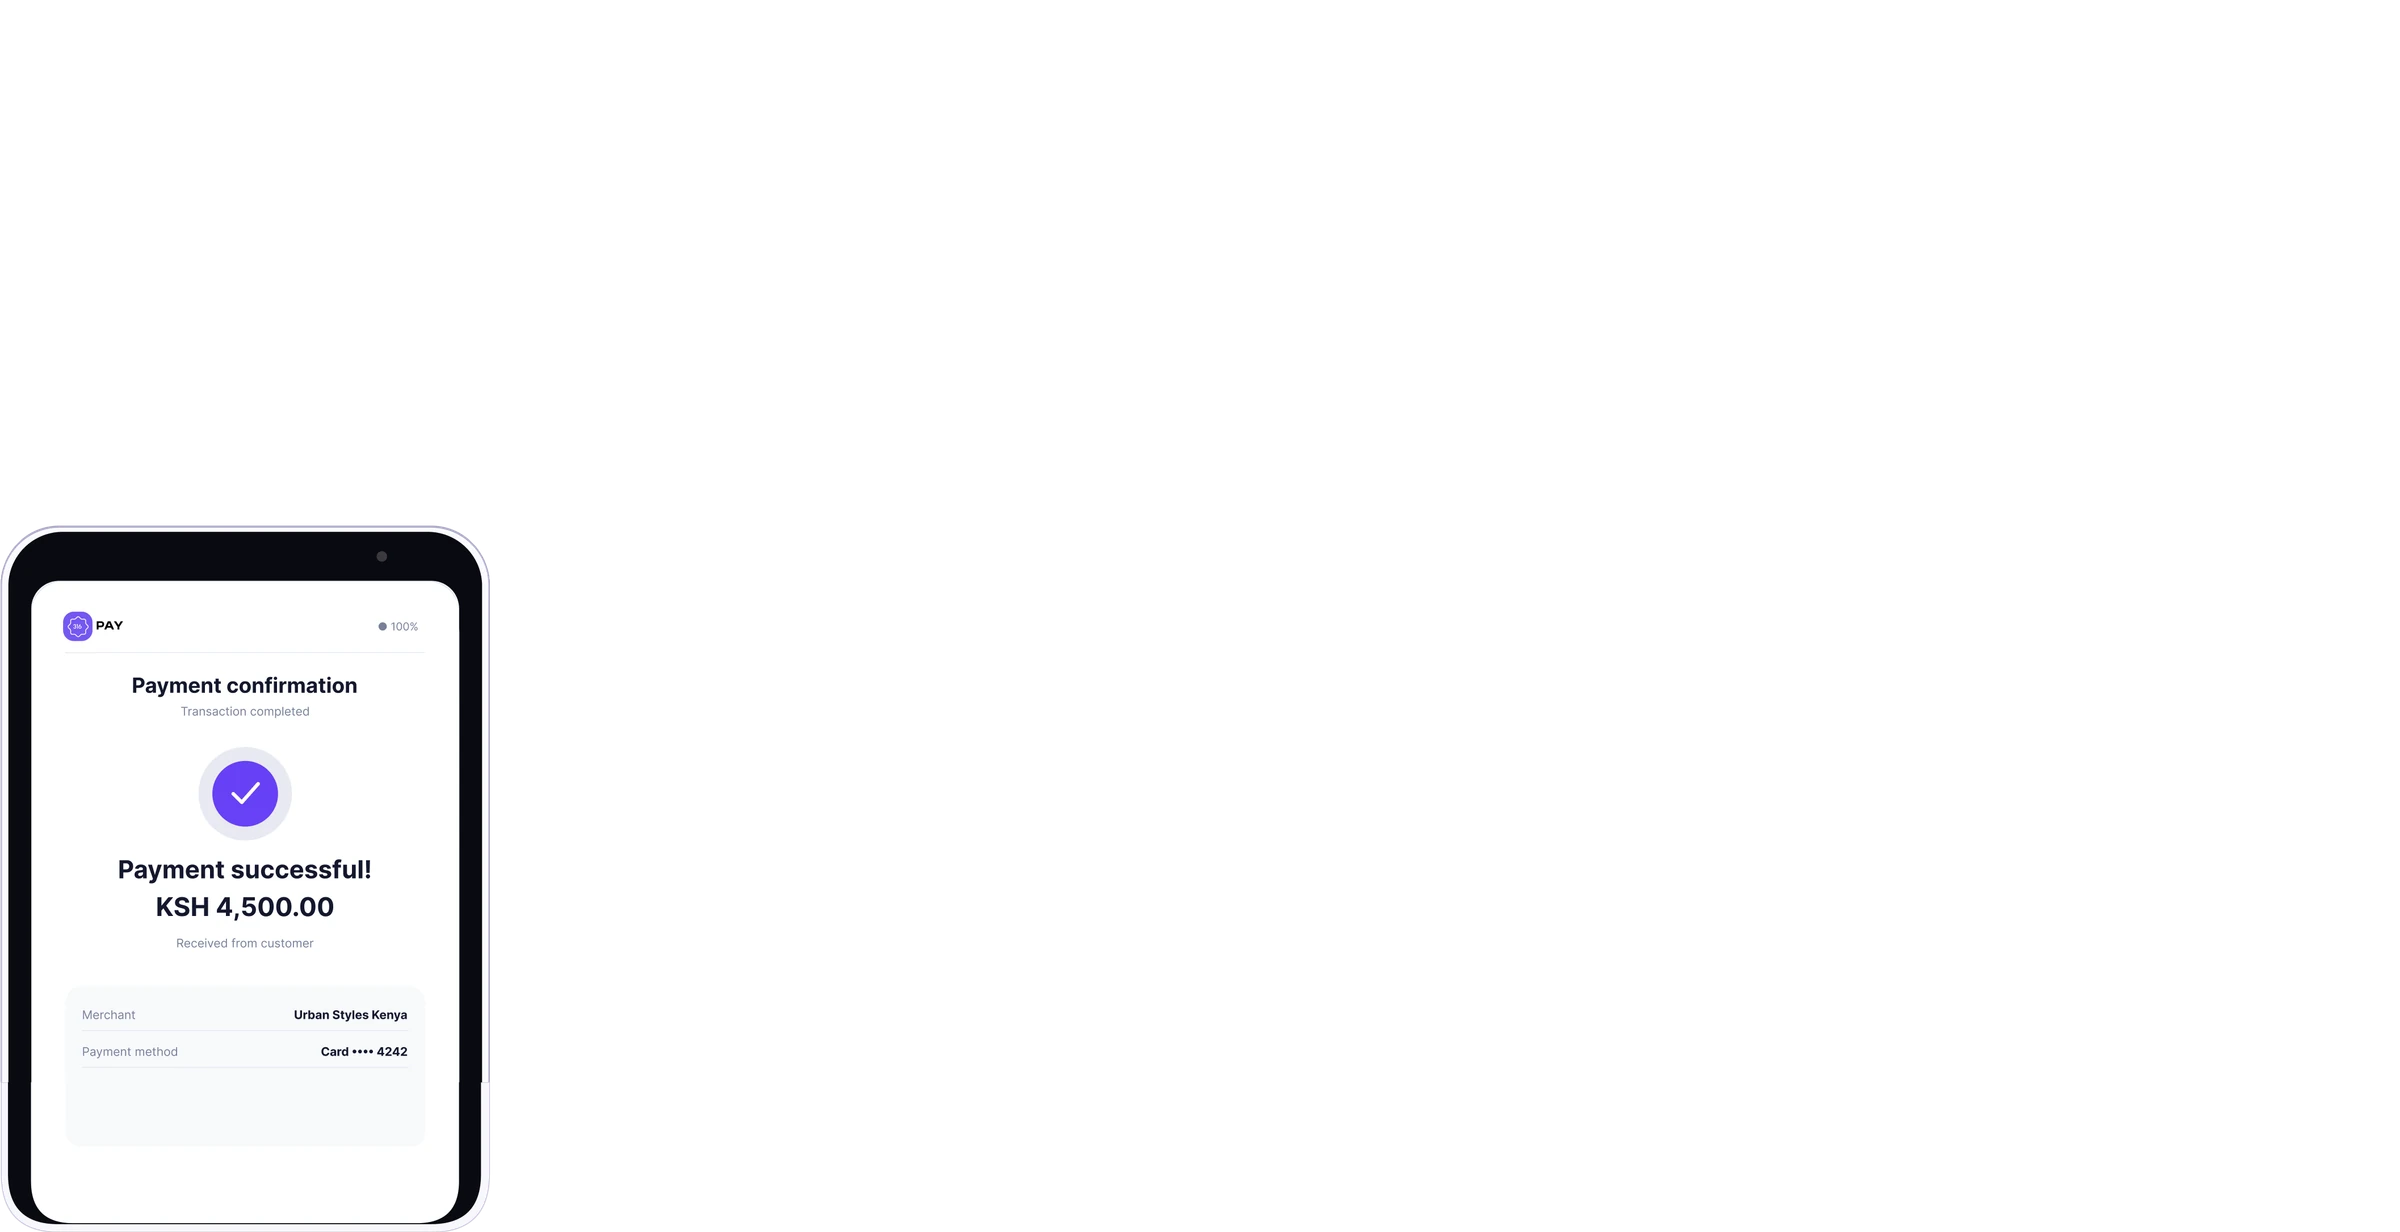
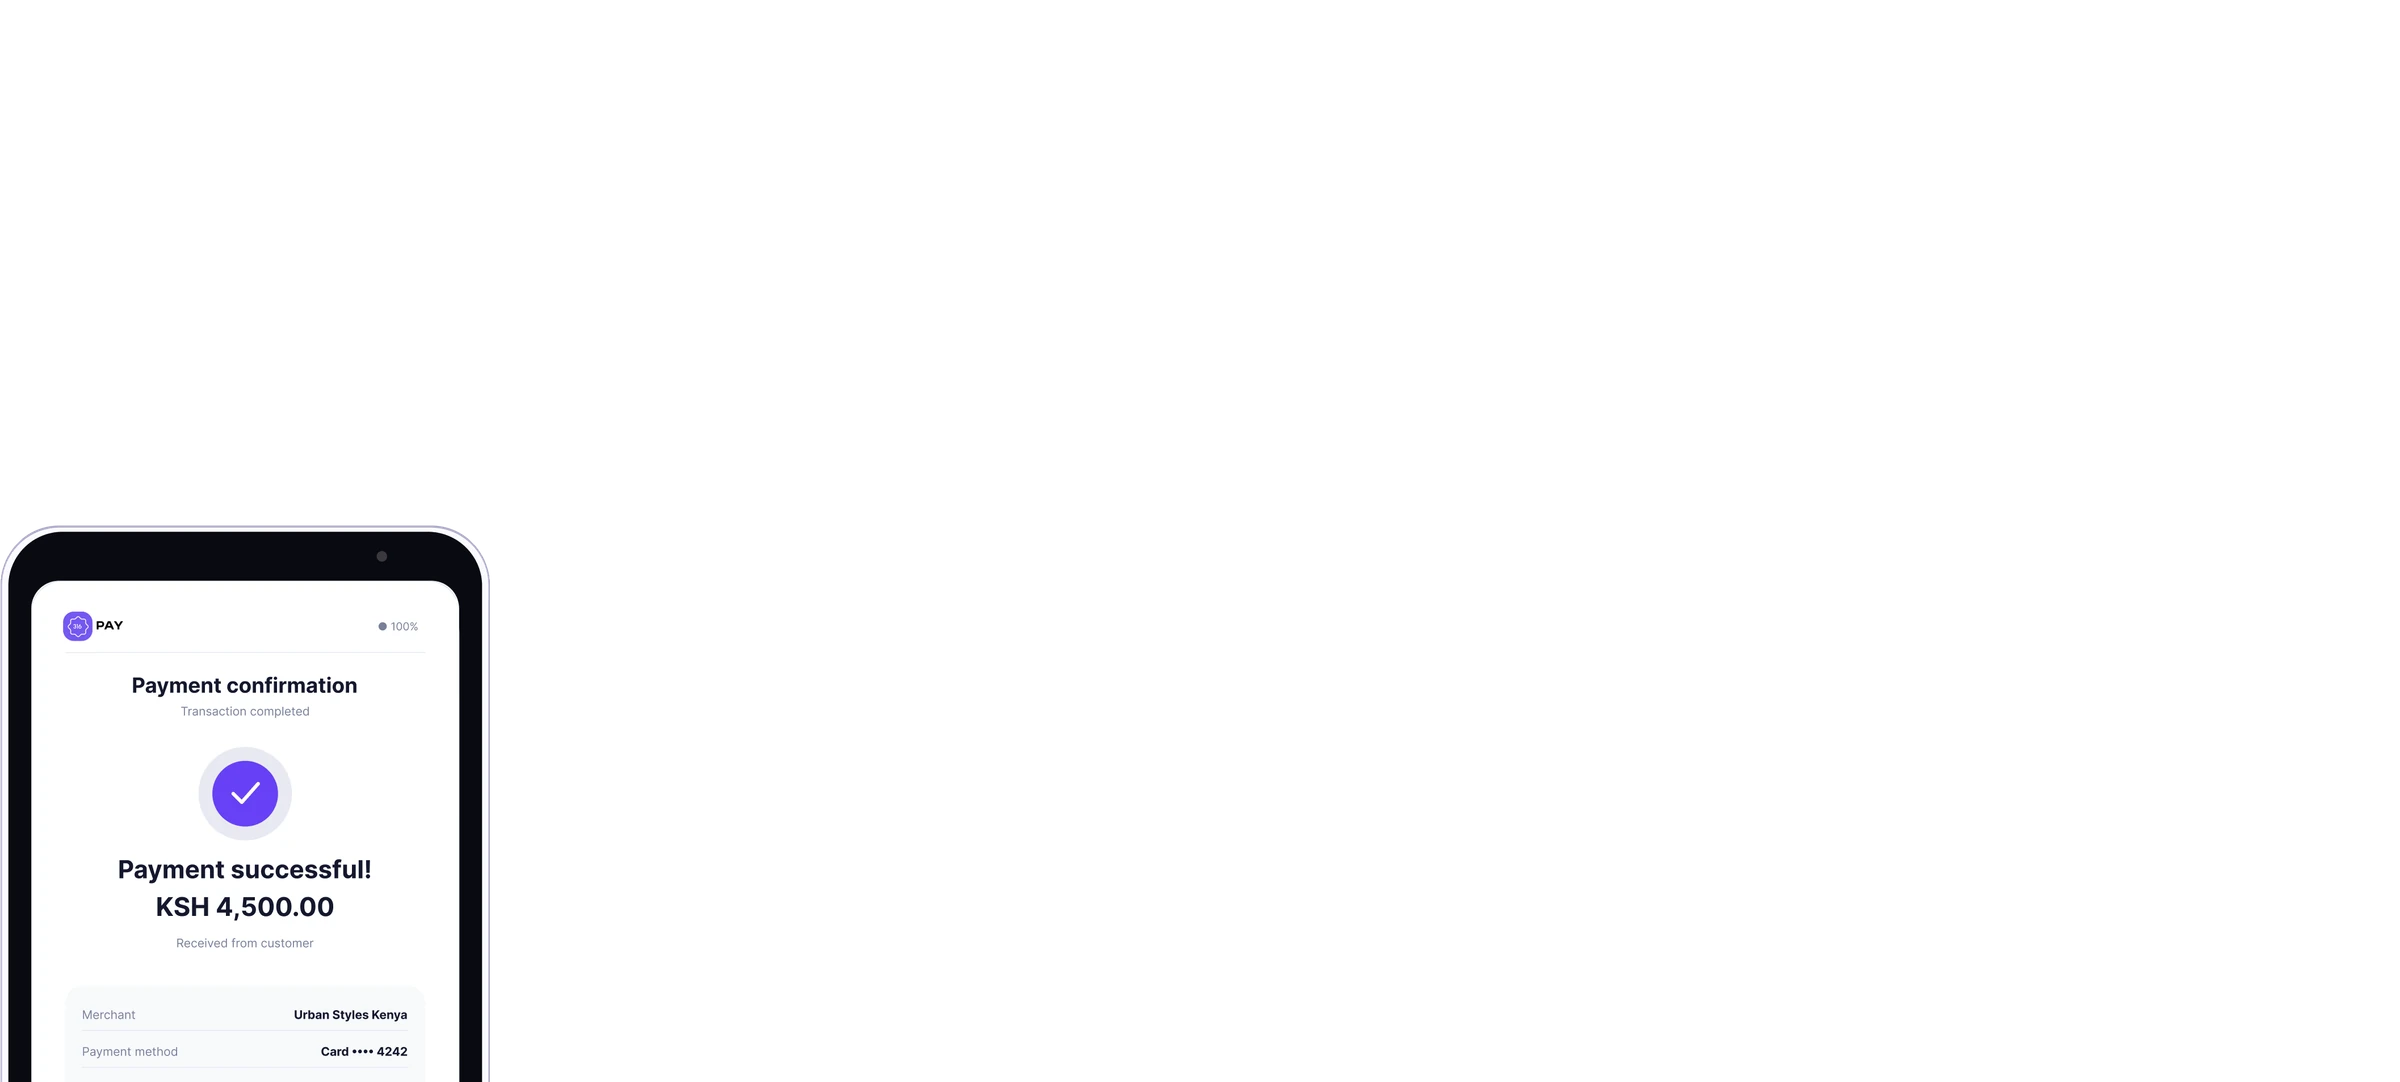
Hero phone: back to the straight cut at the section edge (sides run into the cut, no rounded corners or bezel at the bottom); the rebuilt, matching top corners stay

diff --git a/apps/marketing-web/accept-online-payments.html b/apps/marketing-web/accept-online-payments.html
@@ -10,10 +10,10 @@
   <link rel="preconnect" href="https://fonts.googleapis.com">
   <link rel="preconnect" href="https://fonts.gstatic.com" crossorigin>
   <link rel="stylesheet" href="https://fonts.googleapis.com/css2?family=Outfit:wght@400;500;600;700&display=swap">
-  <link rel="preload" as="image" href="assets/Business/hero-phone.webp?v=611ebb89" type="image/webp" fetchpriority="high">
+  <link rel="preload" as="image" href="assets/Business/hero-phone.webp?v=3039fd52" type="image/webp" fetchpriority="high">
   <link rel="stylesheet" href="styles.css?v=12b22bb8">
   <link rel="stylesheet" href="sections.css?v=373b85c0">
-  <link rel="stylesheet" href="business.css?v=58dd3bb1">
+  <link rel="stylesheet" href="business.css?v=f5a03da0">
   <link rel="stylesheet" href="mobile.css?v=3ae922dd">
 </head>
 <body class="theme-pay">
@@ -214,8 +214,8 @@
         <h1 id="bz-hero-title" class="bz-hero__title"><span class="ln accent">We make it easy</span> <span class="ln">to collect payments in Africa</span></h1>
         <p class="bz-lead"><span class="ln">Collect payments from customers, simplify your operations and reach more</span> <span class="ln">of your market with payment infrastructure designed around African</span> <span class="ln">businesses.</span></p>
       </div>
-      <div class="bz-hero__media"><img src="assets/Business/hero-phone.webp?v=611ebb89" alt="A phone showing a payment confirmation in front of three checkout screens: mobile money, bank transfer and card" class="bz-img" fetchpriority="high" width="2400" height="1232" decoding="async">
-      <img src="assets/Business/hero-phone.webp?v=611ebb89" alt="" class="bz-phone-top" loading="eager" width="2400" height="1232" decoding="async">
+      <div class="bz-hero__media"><img src="assets/Business/hero-phone.webp?v=3039fd52" alt="A phone showing a payment confirmation in front of three checkout screens: mobile money, bank transfer and card" class="bz-img" fetchpriority="high" width="2400" height="1082" decoding="async">
+      <img src="assets/Business/hero-phone.webp?v=3039fd52" alt="" class="bz-phone-top" loading="eager" width="2400" height="1082" decoding="async">
       <div class="bz-hero__screens" aria-hidden="true">
         <div class="bz-deck bz-deck--1"><img src="assets/Business/hero-win.webp?v=453b16a9" alt="" class="bz-base" loading="eager" width="1500" height="1063" decoding="async"><svg class="bz-ov" viewBox="0 0 968 686" aria-hidden="true" focusable="false" preserveAspectRatio="xMinYMin slice"><g class="hp2"><rect x="80" y="578" width="298" height="22" rx="3" fill="rgba(117,87,241,.18)"/></g><g class="hp3 tc"><circle cx="130" cy="589" r="16" fill="none" stroke="#7557F1" stroke-width="2.2"/></g><g class="hp4"><rect x="56" y="256" width="332" height="440" rx="0" fill="#fff"/></g><g class="hp5"><text x="64" y="292" font-size="14" font-weight="600" fill="#111">Pay to this account</text></g><g class="hp6"><text x="64" y="338" font-size="12" font-weight="500" fill="#5F6B8A">Bank name</text><rect x="64" y="352" width="32" height="30" rx="6" fill="#F3F4F8"/><text x="80" y="371" font-size="9" font-weight="700" fill="#18B1A5" text-anchor="middle">Pay</text><text x="106" y="373" font-size="15" font-weight="500" fill="#111">Opay</text><line x1="64" y1="396" x2="372" y2="396" stroke="#EDEFF4" stroke-width="1.4"/></g><g class="hp7"><text x="64" y="424" font-size="12" font-weight="500" fill="#5F6B8A">Account number</text></g><g class="hp8"><text x="64" y="454" font-size="15" font-weight="500" fill="#111">1457778996</text><line x1="64" y1="474" x2="372" y2="474" stroke="#EDEFF4" stroke-width="1.4"/></g><g class="hp9"><text x="64" y="504" font-size="12" font-weight="500" fill="#5F6B8A">Merchant Name</text><text x="64" y="534" font-size="15" font-weight="500" fill="#111">316 PAY / AMAKAS BOUTIQUE</text><line x1="64" y1="554" x2="372" y2="554" stroke="#EDEFF4" stroke-width="1.4"/></g><g class="hp10"><g transform="translate(126 580) scale(0.708)" fill="none" stroke="#111" stroke-width="2" stroke-linecap="round" stroke-linejoin="round"><circle cx="12" cy="12" r="9"/><path d="M12 7v5l3 2"/></g><text x="150" y="593" font-size="11" font-weight="500" fill="#111">Complete transfer within</text></g><g class="hp11"><text x="290" y="593" font-size="11" font-weight="700" fill="#111">09:45</text></g><g class="hp12"><text x="290" y="593" font-size="11" font-weight="700" fill="#111">09:44</text></g><g class="hp13"><text x="290" y="593" font-size="11" font-weight="700" fill="#111">09:43</text></g><g class="hp14"><text x="290" y="593" font-size="11" font-weight="700" fill="#111">09:42</text></g><g class="hp15"><rect x="60" y="612" width="320" height="36" rx="3" fill="#F0F0F2"/><g class="hp-spin tc"><g transform="translate(143 623) scale(0.583)" fill="none" stroke="#9AA0AD" stroke-width="2.6" stroke-linecap="round" stroke-linejoin="round"><path d="M12 3a9 9 0 1 0 9 9" /></g></g><text x="168" y="635" font-size="12" font-weight="500" fill="#9AA0AD">Waiting for payment</text></g><g class="hp16"><rect x="60" y="612" width="320" height="36" rx="3" fill="#1FAE7A"/><g transform="translate(150 622) scale(0.667)" fill="none" stroke="#fff" stroke-width="3" stroke-linecap="round" stroke-linejoin="round"><path d="m6 12.5 4 4 8-9"/></g><text x="176" y="635" font-size="12" font-weight="700" fill="#fff">Payment received</text></g><g class="hp17"><circle cx="222" cy="318" r="40" fill="none" stroke="#E4DEFF" stroke-width="6" pathLength="1" stroke-dasharray="1" transform="rotate(-90 222 318)"/></g><g class="hp18 tc"><circle cx="222" cy="318" r="29" fill="#7557F1"/></g><g class="hp19"><path d="m208 318.5 10 10 19-21" fill="none" stroke="#fff" stroke-width="5" stroke-linecap="round" stroke-linejoin="round" pathLength="1" stroke-dasharray="1"/></g><g class="hp20"><text x="222" y="392" font-size="15" font-weight="700" fill="#111" text-anchor="middle">Payment Successful</text><text x="222" y="417" font-size="14" font-weight="700" fill="#111" text-anchor="middle">NGN 57,000</text></g><g class="hp21"><rect x="202" y="428" width="40" height="16" rx="8" fill="#E7E2FF"/><text x="222" y="440" font-size="9.5" font-weight="600" fill="#7557F1" text-anchor="middle">Paid</text></g><g class="hp22"><rect x="56" y="460" width="328" height="130" rx="0" fill="#F8F7FF"/></g><g class="hp23"><text x="78" y="488" font-size="12" font-weight="500" fill="#5F6B8A">Paid to</text><text x="362" y="488" font-size="12" font-weight="700" fill="#111" text-anchor="end">Amakas Boutique</text></g><g class="hp24"><text x="78" y="518" font-size="12" font-weight="500" fill="#5F6B8A">Payment Method</text><text x="362" y="518" font-size="12" font-weight="700" fill="#111" text-anchor="end">Bank Transfer</text></g><g class="hp25"><text x="78" y="548" font-size="12" font-weight="500" fill="#5F6B8A">Reference</text><text x="362" y="548" font-size="12" font-weight="700" fill="#111" text-anchor="end">PAY-20481</text></g><g class="hp26"><text x="78" y="578" font-size="12" font-weight="500" fill="#5F6B8A">Status</text><text x="362" y="578" font-size="12" font-weight="700" fill="#111" text-anchor="end">Complete</text></g><g class="hp27"><rect x="60" y="604" width="320" height="32" rx="3" fill="#7557F1"/><text x="220" y="625" font-size="13" font-weight="700" fill="#fff" text-anchor="middle">Done</text></g><g class="hp28"><rect x="60" y="644" width="320" height="26" rx="3" fill="#fff" stroke="#D6D6DE" stroke-width="1"/><text x="220" y="662" font-size="11" font-weight="500" fill="#333" text-anchor="middle">Copy receipt details</text></g><g class="hp29"><path d="M0 0 0 17.5l4.6-4 3.2 7.4 3.2-1.4-3.2-7.2H14Z" fill="#111" stroke="#fff" stroke-width="1.3" stroke-linejoin="round"/></g></svg></div>
         <div class="bz-deck bz-deck--2"><img src="assets/Business/hero-bs.webp?v=a3f41e2d" alt="" class="bz-base" loading="eager" width="1500" height="1063" decoding="async"><svg class="bz-ov" viewBox="0 0 968 686" aria-hidden="true" focusable="false" preserveAspectRatio="xMinYMin slice"><g class="hp30"><rect x="172" y="463" width="88" height="24" rx="2" fill="#fff" stroke="#E6E6EA" stroke-width="1"/><text x="216" y="480" font-size="11" font-weight="500" fill="#111"></text></g><g class="hp31"><text x="216" y="479.5" font-size="11" font-weight="500" fill="#111" text-anchor="middle">0712 345 678</text></g><g class="hp32"><rect x="64" y="585" width="302" height="28" rx="3" fill="#5D45D8"/><g class="hp-spin tc"><g transform="translate(163 592) scale(0.583)" fill="none" stroke="#fff" stroke-width="2.8" stroke-linecap="round" stroke-linejoin="round"><path d="M12 3a9 9 0 1 0 9 9" /></g></g><text x="188" y="603" font-size="11" font-weight="600" fill="#fff">Processing…</text></g><g class="hp33 tc"><circle cx="228" cy="599" r="16" fill="none" stroke="#7557F1" stroke-width="2.2"/></g><g class="hp34"><rect x="56" y="252" width="328" height="436" rx="0" fill="#fff"/></g><g class="hp35"><circle class="hp-pulse" cx="219" cy="298" r="34" fill="#EFEBFD"/><circle class="hp-pulse hp-pulse2" cx="219" cy="298" r="34" fill="#EFEBFD"/><circle cx="219" cy="298" r="34" fill="#E9E4FF"/><g transform="translate(204 281) scale(1.250)" fill="none" stroke="#111" stroke-width="1.6" stroke-linecap="round" stroke-linejoin="round"><rect x="5" y="2" width="11" height="18" rx="2"/><path d="M8 17h5"/><rect x="12" y="10" width="9" height="6" rx="1" fill="#7C5CF2" stroke="#7C5CF2"/></g></g><g class="hp36"><text x="219" y="360" font-size="15" font-weight="700" fill="#111" text-anchor="middle">Check your phone</text><text x="219" y="380" font-size="10.5" font-weight="400" fill="#9AA0AD" text-anchor="middle">We sent a payment request to your M-PESA number.</text></g><g class="hp37"><rect x="62" y="400" width="314" height="168" rx="6" fill="#F4F3FF"/><text x="219" y="420" font-size="9" font-weight="400" fill="#9AA0AD" text-anchor="middle">Amount to collect</text><text x="219" y="448" font-size="22" font-weight="700" fill="#111" text-anchor="middle">KSH 51,000</text><line x1="62" y1="462" x2="376" y2="462" stroke="#EAE7F8" stroke-width="1.4"/></g><g class="hp38"><text x="82" y="490" font-size="12" font-weight="500" fill="#5F6B8A">M-pesa number</text><text x="358" y="490" font-size="12" font-weight="700" fill="#111" text-anchor="end">0712 345 678</text></g><g class="hp39"><text x="82" y="520" font-size="12" font-weight="500" fill="#5F6B8A">Merchant</text><text x="358" y="520" font-size="12" font-weight="700" fill="#111" text-anchor="end">B &amp; Sons Furniture</text></g><g class="hp40"><text x="82" y="550" font-size="12" font-weight="500" fill="#5F6B8A">Status</text><g class="hp-chip"><rect x="268" y="538" width="90" height="18" rx="9" fill="#EDE9FF"/><text x="313" y="550.5" font-size="9.5" font-weight="700" fill="#3A2A78" text-anchor="middle">Awaiting approval</text></g></g><g class="hp41"><rect x="62" y="590" width="314" height="28" rx="6" fill="#EFEBFD"/><g class="hp-load"><rect x="62" y="590" width="90" height="28" rx="6" fill="rgba(117,87,241,.22)"/></g><text x="219" y="608" font-size="11" font-weight="600" fill="#5B3FD0" text-anchor="middle">Awaiting confirmation</text></g><g class="hp42"><g transform="translate(176 632) scale(0.458)" fill="none" stroke="#3A2A78" stroke-width="2.4" stroke-linecap="round" stroke-linejoin="round"><rect x="5" y="11" width="14" height="10" rx="2"/><path d="M8 11V8a4 4 0 0 1 8 0v3"/></g><text x="192" y="641" font-size="10" font-weight="500" fill="#3A2A78">Secured by 316 Pay</text></g><g class="hp43"><circle cx="222" cy="318" r="40" fill="none" stroke="#E4DEFF" stroke-width="6" pathLength="1" stroke-dasharray="1" transform="rotate(-90 222 318)"/></g><g class="hp44 tc"><circle cx="222" cy="318" r="29" fill="#7557F1"/></g><g class="hp45"><path d="m208 318.5 10 10 19-21" fill="none" stroke="#fff" stroke-width="5" stroke-linecap="round" stroke-linejoin="round" pathLength="1" stroke-dasharray="1"/></g><g class="hp46"><text x="222" y="392" font-size="15" font-weight="700" fill="#111" text-anchor="middle">Payment Successful</text><text x="222" y="417" font-size="14" font-weight="700" fill="#111" text-anchor="middle">KSH 51,000</text></g><g class="hp47"><rect x="202" y="428" width="40" height="16" rx="8" fill="#E7E2FF"/><text x="222" y="440" font-size="9.5" font-weight="600" fill="#7557F1" text-anchor="middle">Paid</text></g><g class="hp48"><rect x="56" y="460" width="328" height="130" rx="0" fill="#F8F7FF"/></g><g class="hp49"><text x="78" y="488" font-size="12" font-weight="500" fill="#5F6B8A">Paid to</text><text x="362" y="488" font-size="12" font-weight="700" fill="#111" text-anchor="end">B &amp; Sons Furniture</text></g><g class="hp50"><text x="78" y="518" font-size="12" font-weight="500" fill="#5F6B8A">Payment Method</text><text x="362" y="518" font-size="12" font-weight="700" fill="#111" text-anchor="end">M-PESA</text></g><g class="hp51"><text x="78" y="548" font-size="12" font-weight="500" fill="#5F6B8A">Reference</text><text x="362" y="548" font-size="12" font-weight="700" fill="#111" text-anchor="end">ORD-20481</text></g><g class="hp52"><text x="78" y="578" font-size="12" font-weight="500" fill="#5F6B8A">Status</text><text x="362" y="578" font-size="12" font-weight="700" fill="#111" text-anchor="end">Complete</text></g><g class="hp53"><rect x="60" y="604" width="320" height="32" rx="3" fill="#7557F1"/><text x="220" y="625" font-size="13" font-weight="700" fill="#fff" text-anchor="middle">Done</text></g><g class="hp54"><rect x="60" y="644" width="320" height="26" rx="3" fill="#fff" stroke="#D6D6DE" stroke-width="1"/><text x="220" y="662" font-size="11" font-weight="500" fill="#333" text-anchor="middle">Copy receipt details</text></g><g class="hp55"><path d="M0 0 0 17.5l4.6-4 3.2 7.4 3.2-1.4-3.2-7.2H14Z" fill="#111" stroke="#fff" stroke-width="1.3" stroke-linejoin="round"/></g></svg></div>

diff --git a/apps/marketing-web/business.css b/apps/marketing-web/business.css
@@ -294,7 +294,7 @@
    like a falling card and goes to the back of the stack while the next deck comes forward. The screens are inline SVG on a
    968 x 686 design box, so they scale exactly with the artwork (no unit maths, nothing to mis-render). ---------- */
 .bz-hero__media { position: relative; }
-.bz-hero__screens { position: absolute; left: 38.29%; top: 0.553%; width: 61.12%; height: 84.39%; pointer-events: none; }
+.bz-hero__screens { position: absolute; left: 38.29%; top: 0.63%; width: 61.12%; height: 96.07%; pointer-events: none; }
 .bz-deck { position: absolute; inset: 0; transform-origin: 50% 0; border-radius: 1.5% / 2.1%; background: #fff; box-shadow: 0 0.75rem 2rem rgba(70, 40, 150, .18); overflow: hidden; will-change: transform, opacity; }
 .bz-deck > .bz-base, .bz-deck > .bz-ov { position: absolute; inset: 0; width: 100%; height: 100%; display: block; max-width: none; }
 .bz-ov text { font-family: var(--font); }
